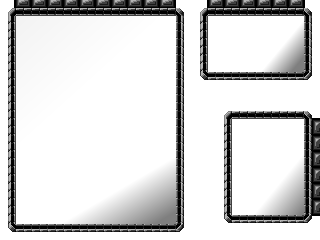
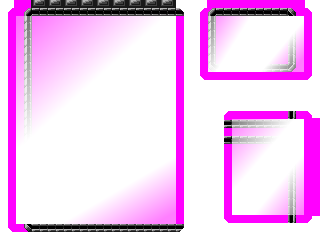
changed layout of gui

diff --git a/scoreboard.py b/scoreboard.py
@@ -9,35 +9,35 @@ class Scoreboard(Sprite):
         Sprite.__init__(self)
     
         self.font = Font("font_fat.png", 8, 8)
+            
+        self.highscorelabeltext = Text(12.0, 12, self.font, "HISCORE:")        
+        self.highscoretext = Text(76.0, 22, self.font, "0")
+        self.highscoretext.setAnchor("right")
         
-        self.scorelabeltext = Text(12.0, 20, self.font, "SCORE:")
-        self.scoretext = Text(100.0, 30, self.font, "0")
+        self.scorelabeltext = Text(12.0, 32, self.font, "SCORE:")
+        self.scoretext = Text(76.0, 42, self.font, "0")
         self.scoretext.setAnchor("right")
-        
-        self.levellabeltext = Text(12.0, 42, self.font, "LEVEL:")        
-        self.leveltext = Text(100.0, 52, self.font, "0")
-        self.leveltext.setAnchor("right")
         
         self.scorebg = Sprite()
         self.scorebg.setImage(loadImage("pixel.png", 1, 1))
-        self.scorebg.setPos((8.0, 16.0))
-        self.scorebg.setScale((96.0, 56.0))
+        self.scorebg.setPos((8.0, 8.0))
+        self.scorebg.setScale((72.0, 48.0))
         self.scorebg.setCol((0.0, 0.0, 0.0, 0.5))
 
         self.border = Sprite()
-        self.border.setImage(loadImage("scoreboard_border.png"))
+        self.border.setImage(loadImage("windowframes.png", 208, 8, 88, 64))
         self.border.setPos((0.0,0.0))
         
         self.glow = Sprite()
-        self.glow.setImage(loadImage("scoreboard_glow.png"))
+        self.glow.setImage(loadImage("windowglows.png", 208, 8, 88, 64))
         self.glow.setPos((0.0,8.0))
         self.glow.setCol((0.0, 0.0, 0.0, 0.0))
         
         self.subSprites.append(self.scorebg)
         self.subSprites.append(self.scorelabeltext)
         self.subSprites.append(self.scoretext)
-        self.subSprites.append(self.levellabeltext)
-        self.subSprites.append(self.leveltext)
+        self.subSprites.append(self.highscorelabeltext)
+        self.subSprites.append(self.highscoretext)
         self.subSprites.append(self.border)
         self.subSprites.append(self.glow)
         
@@ -46,13 +46,19 @@ class Scoreboard(Sprite):
 
         self._glow_col = (0.0, 0.0, 0.0, 0.0)
         self._glow_duration = 0.0
-
-    def updateScoreboard(self, level, score):
-        self.level = level
+        
+    def setHighscore(self, highscore):
+        self.highscore = highcsore
+        
+    def updateScoreboard(self, score):
         self.score = score
     
-        self.scoretext.setText(str(self.score))
-        self.leveltext.setText(str(self.level))
+        if (score != self.score):
+            self.scoretext.setText(str(self.score))
+            self.score = score
+            if (score > self.highscore):
+                self.highscoretext.setText(str(self.highscore))
+                
         
     def pulseBorder(self, col, duration):
         self._glow_col = col

diff --git a/scene_maingame.py b/scene_maingame.py
@@ -14,6 +14,7 @@ from image import *
 from marker import *
 from hourglass import *
 from scoreboard import *
+from levelboard import *
 from scene_gameover import *
 from scene_highscore import *
 from background import *
@@ -22,7 +23,6 @@ from scene_mainmenu import *
 from scene_tutorial import *
 from scenehandler import *
 
-from levelsplash import *
 
 LAYER_EFFECTS = 4
 LAYER_GUI = 3
@@ -36,30 +36,31 @@ class Scene_MainGame(Scene):
         self.updateBlocker = True
         
         self.board = Board(self, BOARD_WIDTH, BOARD_HEIGHT)
-        self.board.setPos((8.0, 0.0))
+        self.board.setPos((24.0, 0.0))
         
         self.scoreboard = Scoreboard()
-        self.scoreboard.setPos((200.0, 0.0))
+        self.scoreboard.setPos((208.0, 8.0))
+        
+        self.levelboard = Levelboard()
+        self.levelboard.setPos((208.0, 80.0))
+        
+        self.hourglass = Hourglass()
+        self.hourglass.setPos((208, 136))
+        self.background = Background() 
+
+        self.sprites.add(self.background)
+        self.sprites.add(self.hourglass)
+        self.sprites.add(self.board)
+        self.sprites.add(self.scoreboard)
+        self.sprites.add(self.levelboard)
+        
         
         self.blocks = pygame.sprite.Group()
         self.blockcount = 0
         self.font = Font("font_fat.png", 8, 8)
                 
         self.music =  []
-
-
-        self.levelsplash = LevelSplash()
-        self.background = Background() 
-
-        self.sprites.add(self.background)
-
-        self.hourglass = Hourglass()
-        self.hourglass.setPos((224, 119))
-        
-        self.sprites.add(self.hourglass)
-        self.sprites.add(self.board)
-        self.sprites.add(self.scoreboard)
-        
+       
         self.score = 0
         self.ticker = 20
         self.init_counter = 0
@@ -87,6 +88,7 @@ class Scene_MainGame(Scene):
 
         self.statelist = {"idle":0, "running":1, "gameover":2}
         self.state = self.statelist["idle"]
+        
     
     def preload(self):
         lock = thread.allocate_lock()

diff --git a/hourglass.py b/hourglass.py
@@ -16,8 +16,8 @@ class Hourglass(Sprite):
 
         self.bar = Sprite()
         self.bar.setImage(loadImage("pixel.png", 1, 1))        
-        self.bar.setScale((72, -96))
-        self.bar.setPos((8.0, 104.0))
+        self.bar.setScale((72, -80))
+        self.bar.setPos((8.0, 88.0))
 
         self.max = 0
         
@@ -30,17 +30,17 @@ class Hourglass(Sprite):
         
         self.background = Sprite()
         self.background.setImage(loadImage("pixel.png", 1, 1))
-        self.background.setScale((72.0, 96.0))
+        self.background.setScale((72.0, 80.0))
         self.background.setPos((8.0, 8.0))
         self.background.setCol((0.0, 0.0, 0.0, 0.3))
         
         self.border = Sprite()
-        self.border.setImage(loadImage("hourglass_border.png"))
+        self.border.setImage(loadImage("windowframes.png", 208, 136, 88, 96))
         self.border.setPos((0.0,0.0))
         
         self.pausebg = Sprite()
         self.pausebg.setImage(loadImage("pixel.png", 1, 1))
-        self.pausebg.setScale((72.0, 96.0))
+        self.pausebg.setScale((72.0, 80.0))
         self.pausebg.setPos((8.0, 8.0))
         self.pausebg.setCol((0.0, 0.0, 0.0, 0.0))
 
@@ -55,7 +55,7 @@ class Hourglass(Sprite):
         self.pausetext.setCol((0.0, 0.0, 0.0, 0.0))
 
         self.glow = Sprite()
-        self.glow.setImage(loadImage("hourglass_glow.png"))
+        self.glow.setImage(loadImage("windowglows.png", 208, 136, 88, 96))
         self.glow.setPos((0.0,0.0))
         self.glow.setCol((0.0, 0.0, 0.0, 0.0))
 
@@ -199,7 +199,7 @@ class Hourglass(Sprite):
             self.state = self.statelist["high"]
             pygame.event.post(pygame.event.Event(EVENT_TIMER_STATE_CHANGED, state="high"))
 
-        self.bar.scaleTo((72, -p*96), currentTime, 0.1)
+        self.bar.scaleTo((72, -p*80), currentTime, 0.1)
         self.bar.fadeTo((1 - p, p, 0.0, 1.0), currentTime, 0.1)
         #pygame.draw.rect(self.image, [(1-p)*255,p*255,0], [0,(1-p)*150,90,150])
         

diff --git a/board.py b/board.py
@@ -38,11 +38,11 @@ class Board(Sprite):
         self.blocks.setPos((8.0,16.0))
         
         self.border = Sprite()
-        self.border.setImage(loadImage("board_border.png"))
+        self.border.setImage(loadImage("windowframes.png", 24, 0, 176, 232))
         self.border.setPos((0.0,0.0))
         
         self.glow = Sprite()
-        self.glow.setImage(loadImage("board_glow.png"))
+        self.glow.setImage(loadImage("windowglows.png", 24, 0, 176, 232))
         self.glow.setPos((0.0,8.0))
         self.glow.setCol((0.0, 0.0, 0.0, 0.0))
 
